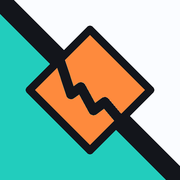
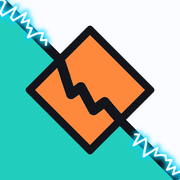
アイコンを帯に沿った電撃の案Bに、サイト更新時は入力中の内容を保って自動で更新
Claude-Session: https://claude.ai/code/session_01FQJ1XiZER3tAd8K9bpz1Z8

diff --git a/index.html b/index.html
@@ -927,10 +927,11 @@ function render() {
   const app = $("#app");
   const gated = FB.on && !demoMode && !(FB.user && FB.tid) && !(LOCAL.on && LOCAL.id);
   document.body.classList.toggle("gated", gated);
-  if (gated) { $("#evname").innerHTML = "戦闘摂理<b>◆</b>大会システム"; app.innerHTML = installView() + (r === "guide" ? viewGuide(true) : viewGate()); return; }
+  if (gated) { $("#evname").innerHTML = "戦闘摂理<b>◆</b>大会システム"; app.innerHTML = installView() + (r === "guide" ? viewGuide(true) : viewGate()); if (resumeData) setTimeout(() => applyResume(true), 0); return; }
   if (!s.loaded && !demoMode) { app.innerHTML = `<div class="empty"><strong>読み込み中…</strong><span>${esc(loadNote)}</span></div>`; return; }
   const html = { myteam: viewMyTeam, standings: viewStandings, matches: s => reportsAdminView(s) + viewMatches(s), bracket: viewBracket, teams: viewTeams, rules: viewRules, guide: () => installView() + viewGuide(false) }[r](s);
   app.innerHTML = (demoMode ? `<div class="notice warn"><strong>デモ表示中</strong>：架空のチームと結果で動きを確認できます。ここでの操作は保存されません。<button class="btn" data-act="demo-off" style="margin-left:8px">デモを終了</button></div>` : "") + html;
+  if (resumeData) setTimeout(() => applyResume(false), 0);
 }
 function renderMode() {
   const labels = { admin: "運営（編集可）", contributor: "編集可", viewer: "観戦者", player: "選手" };
@@ -1328,7 +1329,7 @@ function viewGuide(gated) {
     <li>運営には「対戦表・結果入力」の上に「<b>選手からの結果報告</b>」が出ます。スクショを見て「<b>承認して結果にする</b>」を押すと結果になります。「スクショを見る」を押すと自動で読み取り、<b>報告と読み取り結果が一致しているか・メダル情報があるか・カスタムバトルのリプレイか・映っている人がこの対戦の2チームのメンバーか</b>を表示します。違うときは「<b>読み取った結果で承認</b>」も使えます。「スクショで読み取り・確認」でデッキやメダルの中身の確認もできます。違うときは理由を書いて「却下」します。処理が終わった報告は「<b>スクショを削除</b>」で画像を消して、保存容量を空けられます。</li></ul>`)}
   ${sec(9, "スマホで使う", `<ul>
     <li><b>アプリとしてインストール</b>できます。Android・パソコンのChromeでは、最初の画面や「使い方」に出る「アプリとしてインストール」ボタン（または Chromeの「︙」→「<b>アプリをインストール</b>」/「ホーム画面に追加」）から。iPhone・iPadでは、Safariの共有ボタン（□に↑）→「<b>ホーム画面に追加</b>」から。</li>
-    <li>インストールすると、ホーム画面のアイコンから全画面で開けます。結果はそのままリアルタイムで更新され、サイトが新しくなったときは上に「新しいバージョンがあります」と出ます。</li>
+    <li>インストールすると、ホーム画面のアイコンから全画面で開けます。結果はそのままリアルタイムで更新されます。サイトが新しくなったときは、入力の切れ目で<b>自動で更新</b>し、入力中の内容（結果報告のポータルキー・スクショ・ひとこと、開いていた対戦、入力欄の文字など）はそのまま戻ります。</li>
     <li>スマホでは、画面の下のボタンでページを切り替えます。</li></ul>`)}
   </div>`;
 }
@@ -2491,7 +2492,52 @@ async function checkSite() {
   if (!/^https?:$/.test(location.protocol) || newSite) return;
   const v = await siteVersion(); if (!v) return;
   if (siteTag == null) { siteTag = v; return; }
-  if (v !== siteTag) { newSite = true; paintNet(); }
+  if (v !== siteTag) { newSite = true; paintNet(); autoUpdate(); }
+}
+/* the site updates itself: wait for a quiet moment, keep what is being typed, reload, then put it back */
+const RESUME_KEY = "compass3on3_resume";
+let resumeData = null, autoTimer = null;
+function quietNow() {
+  const a = document.activeElement;
+  if (a && a.matches && a.matches("input:not([type=file]):not([type=checkbox]):not([type=radio]), textarea, select")) return false;   // someone is typing
+  if (FB.busy || (repDraft && repDraft.busy) || (scan && scan.busy) || createDlg) return false;
+  if (Object.values(saveQ).some(q => q.busy || q.has)) return false;                                              // still saving
+  return true;
+}
+function saveResume() {
+  const inputs = {};
+  document.querySelectorAll("input[id], textarea[id]").forEach(el => { if (!["file", "password", "checkbox", "radio", "hidden"].includes(el.type) && el.value) inputs[el.id] = el.value; });
+  const st = { at: Date.now(), tid: FB.tid || LOCAL.id || null, hash: location.hash, y: scrollY, setOpen, pcSel, inputs,
+    editor: openId && draft ? { id: openId, base: { kind: draft.kind, group: draft.group, a: draft.a, b: draft.b, key: draft.key } } : null,
+    rep: repDraft ? { ...repDraft, busy: false } : null };
+  try { sessionStorage.setItem(RESUME_KEY, JSON.stringify(st)); return true; }
+  catch (e) {   // too big for the browser (screenshots): keep everything but the pictures
+    if (st.rep) { st.rep = { ...st.rep, shots: [] }; st.shotsDropped = true; try { sessionStorage.setItem(RESUME_KEY, JSON.stringify(st)); return true; } catch (e2) {} }
+    return false;
+  }
+}
+function reloadKeeping() { saveResume(); location.reload(); }
+function autoUpdate() {
+  if (autoTimer) return;
+  autoTimer = setInterval(() => { if (quietNow()) { clearInterval(autoTimer); reloadKeeping(); } }, 3000);
+}
+try { const r = JSON.parse(sessionStorage.getItem(RESUME_KEY) || "null"); sessionStorage.removeItem(RESUME_KEY); if (r && Date.now() - r.at < 5 * 60 * 1000) resumeData = r; } catch (e) {}
+// put the saved state back once the page is ready again (called at the end of render)
+function applyResume(gated) {
+  const r = resumeData; if (!r) return;
+  const here = FB.tid || LOCAL.id || null;
+  if (gated) { if (!FB.auth || FB.busy || (FB.user && r.tid)) return; }      // wait: the tournament is still opening
+  else if (!S().loaded || here !== r.tid) { if (S().loaded && here !== r.tid) resumeData = null; return; }
+  resumeData = null;
+  if (!gated) {
+    setOpen = !!r.setOpen; pcSel = r.pcSel || "";
+    if (r.rep && role === "player") repDraft = r.rep;
+    if (r.editor) { openId = null; openEditor(r.editor.id, r.editor.base); }
+    render();
+  }
+  for (const [id, v] of Object.entries(r.inputs || {})) { const el = document.getElementById(id); if (el && !el.value) el.value = v; }
+  if (r.y) setTimeout(() => scrollTo(0, r.y), 50);
+  toast(r.shotsDropped ? "サイトを新しいバージョンに更新しました。入力中の内容は戻しましたが、選んだスクショだけは選び直してください" : "サイトを新しいバージョンに更新しました（入力中の内容はそのままです）");
 }
 function paintNet() {
   const el = $("#netbar"); if (!el) return;
@@ -2499,13 +2545,13 @@ function paintNet() {
   el.hidden = !off && !newSite;
   el.className = "netbar" + (off ? " off" : "");
   el.innerHTML = off ? "オフラインです。つながると、自動で最新の結果に更新されます。"
-    : newSite ? `このサイトの新しいバージョンがあります。<button class="btn sm" data-act="site-reload">更新する</button><span class="muted-s">（入力中の報告は消えます）</span>` : "";
+    : newSite ? `新しいバージョンがあります。入力の切れ目で、入力中の内容を保ったまま自動で更新します。<button class="btn sm" data-act="site-reload">今すぐ更新</button>` : "";
 }
 addEventListener("online", () => { paintNet(); checkSite(); });
 addEventListener("offline", paintNet);
 document.addEventListener("visibilitychange", () => { if (document.visibilityState === "visible") checkSite(); });
 setInterval(checkSite, 10 * 60 * 1000);
-document.addEventListener("click", ev => { if (ev.target.closest('[data-act="site-reload"]')) location.reload(); });
+document.addEventListener("click", ev => { if (ev.target.closest('[data-act="site-reload"]')) reloadKeeping(); });
 /* ---------- install as an app ---------- */
 let installEvt = null;
 const isStandalone = () => matchMedia("(display-mode: standalone)").matches || navigator.standalone === true;

diff --git a/sw.js b/sw.js
@@ -1,14 +1,15 @@
 // Service worker for installing the site as an app.
 // Always asks the network first, so an open app gets the newest version of the site; the saved copy is used only offline.
 // Results themselves come live from Firebase and are not touched here.
-const CACHE = "compass3on3-v6";
+const CACHE = "compass3on3-v7";
 const SHELL = ["./", "./index.html", "./reader.js", "./firebase-config.js", "./manifest.webmanifest", "./icons/icon-192.png", "./icons/icon-512.png"];
 self.addEventListener("install", e => { e.waitUntil(caches.open(CACHE).then(c => c.addAll(SHELL)).catch(() => {})); self.skipWaiting(); });
 self.addEventListener("activate", e => { e.waitUntil(caches.keys().then(ks => Promise.all(ks.filter(k => k !== CACHE).map(k => caches.delete(k)))).then(() => self.clients.claim())); });
 self.addEventListener("fetch", e => {
   const req = e.request, url = new URL(req.url);
   if (req.method !== "GET" || url.origin !== location.origin) return; // Firebase, fonts, reCAPTCHA: straight to the network
-  e.respondWith(fetch(req).then(res => {
+  // "no-cache": always ask the server whether the file changed (cheap when it did not), so an update is never hidden by the browser cache
+  e.respondWith(fetch(req, { cache: "no-cache" }).then(res => {
     if (res.ok && res.type === "basic") { const copy = res.clone(); caches.open(CACHE).then(c => c.put(req, copy)).catch(() => {}); }
     return res;
   }).catch(() => caches.match(req, { ignoreSearch: true }).then(r => r || (req.mode === "navigate" ? caches.match("./index.html") : Response.error()))));
